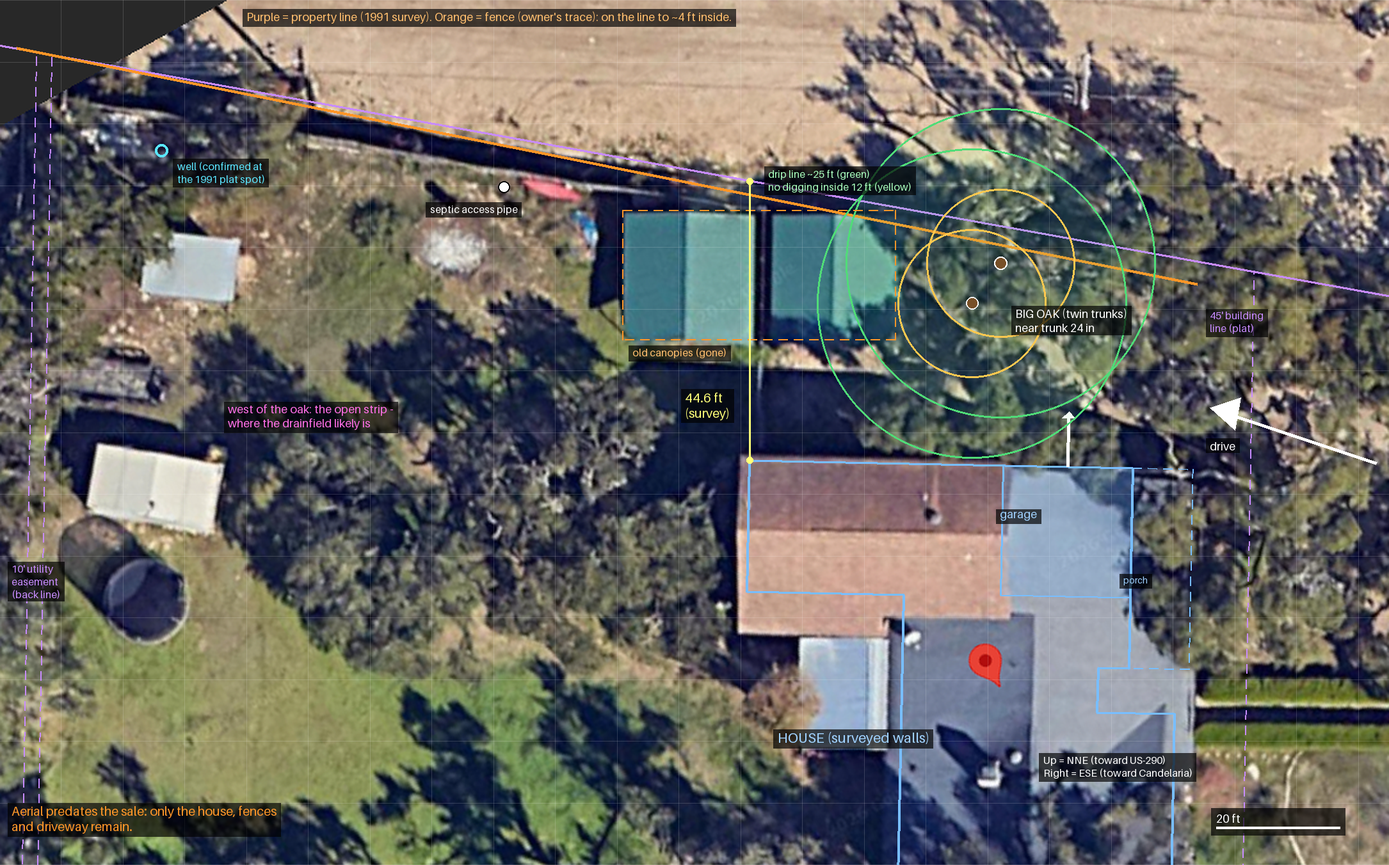
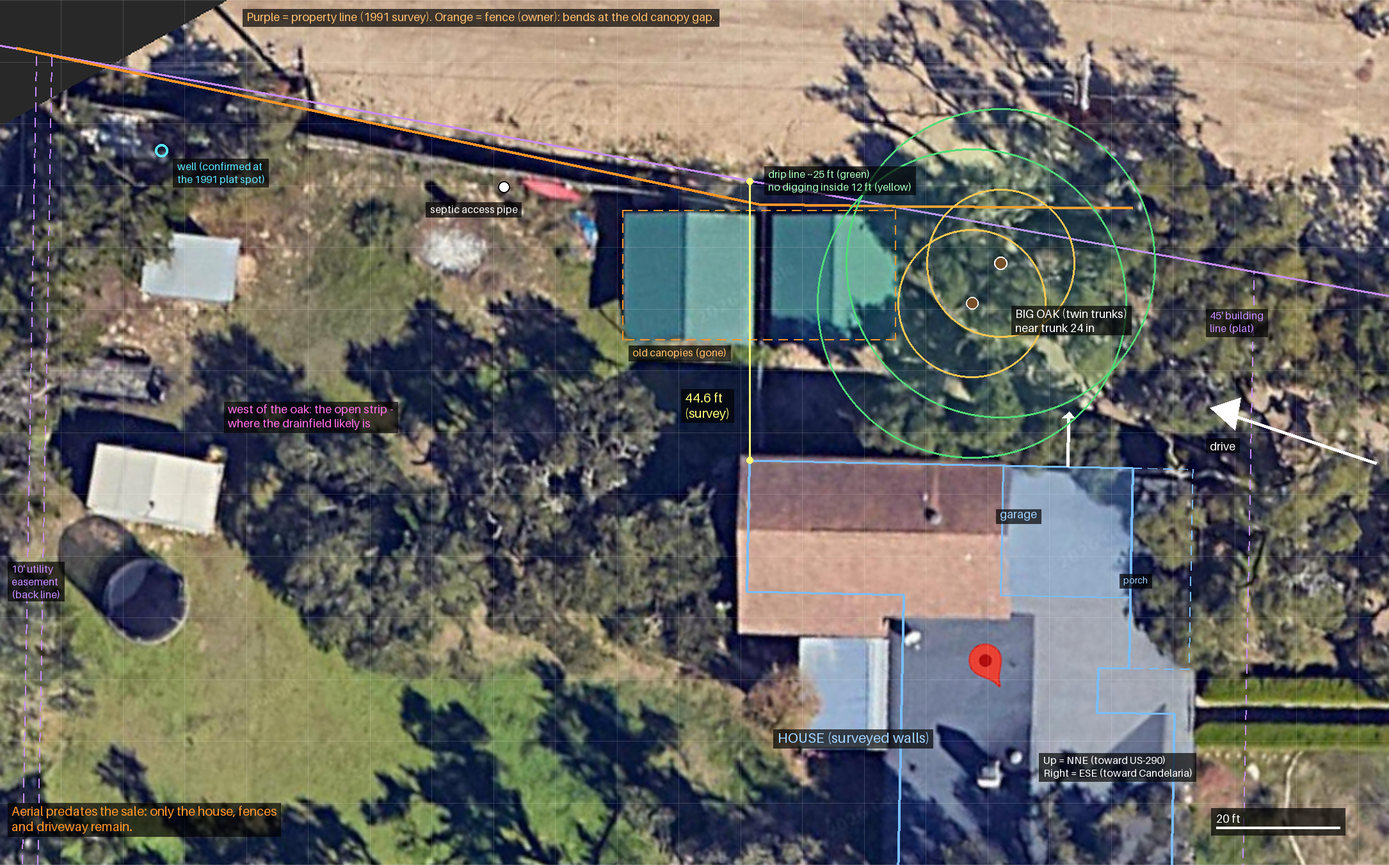
Model the US-290 fence with its bend at the old canopy gap
Per the owner, the fence bends between the two old canopies and runs along
the highway side of the house-side one, roughly parallel to the house.
Laser shot 4 (B -> fence 42 ft) fits that; shot 3 hit near the bend and
read long. East of the bend the fence crosses the surveyed line and sits
up to ~7 ft beyond it by the garage. Notes list the tape checks.

Claude-Session: https://claude.ai/code/session_018cHe8XhgQq9yhHiRQpWsrY

diff --git a/tools/site_plan.py b/tools/site_plan.py
@@ -236,9 +236,12 @@ def north_line_y(x: float) -> float:
 
 
 FIELD_POINTS = REPO / "site" / "field-points.json"
-# The US-290 fence as the owner traced it on a newer north-up aerial (Oct 2026), mapped to
-# this grid with a similarity fit on the house roof and old canopy corners (residuals <= 2 ft).
-FENCE_TRACE = [(62.9, 102.7), (253.9, 141.0)]
+# The US-290 fence (owner, Oct 2026). West of the gap between the old canopies it follows
+# the owner's trace on a newer aerial (mapped with a similarity fit on the house roof and
+# canopy corners, residuals <= 2 ft). At that gap it bends and runs along the highway side
+# of the house-side canopy, roughly parallel to the house; laser shot 4 (B -> fence 42.0 ft)
+# fits that line. Shot 3 hit near the bend and read long. To be checked with a tape.
+FENCE_TRACE = [(62.9, 102.7), (183.0, 128.0), (205.0, 128.3), (243.5, 128.7)]
 
 
 def draw_field(plan: Plan) -> dict:
@@ -276,7 +279,7 @@ def main() -> None:
 
     draw_survey(plan)
     fp = draw_field(plan)
-    plan.label(100, 96.5, "Purple = property line (1991 survey). Orange = fence (owner's trace): on the line to ~4 ft inside.", fill=(255, 190, 110), size=18)
+    plan.label(100, 96.5, "Purple = property line (1991 survey). Orange = fence (owner): bends at the old canopy gap.", fill=(255, 190, 110), size=18)
 
     well = en_to_site(WELL)
     plan.label(well[0] + 2.5, well[1] + 1.5, "well (confirmed at\nthe 1991 plat spot)", fill=CYAN, size=16)

diff --git a/site/notes.md b/site/notes.md
@@ -177,13 +177,21 @@ How it lines up with what we've seen:
 - **The well is where the 1991 plat shows it**, near the NW corner (~28 ft in from the
   back line, ~12 ft from the US-290 line).
 
-## Fence: owner's trace (Oct 11 2026)
+## Fence: owner's trace + bend (Oct 11 2026)
 
-- The owner traced the US-290 fence on a newer north-up aerial. Mapped onto this grid (fit
-  on the house roof and old canopy corners, residuals <= 2 ft), it runs **on the surveyed
-  line at the west end and ~2–4 ft inside it toward the garage**. It's ~43 ft out from A.
-- The laser fence shots (3–6) were off by several feet. The "fence 4–8 ft beyond the
-  line" reading is withdrawn. A 100 ft tape check is still worthwhile.
+- **West of the gap between the old canopies:** the fence follows the owner's trace on a
+  newer aerial. It's on the surveyed line at the west end and ~3 ft inside it at the bend.
+- **At that gap it bends** and runs along the highway side of the house-side canopy, roughly
+  parallel to the house.
+  - Laser shot 4 (B → fence 42.0 ft) fits that line. Shot 3 (49.5 ft) hit near the bend
+    and read long; the fence there is ~42 ft from A. F3 (shots 5–6) depended on shot 3.
+  - Past the canopy, that line **crosses the surveyed line** and sits up to **~7 ft beyond
+    it** (on the highway side) by the garage. The fence encloses a sliver of what the
+    1991 survey says isn't ours. That area is under the oak anyway.
+- **Tape checks:**
+  - A → fence square off the wall (expect ~42 ft).
+  - A → the bend post.
+  - B → fence (expect ~42 ft).
 - **Squaring off the wall with a tape:** mark 6 ft along the wall from the corner and 8 ft
   out, and adjust until the diagonal between those marks reads 10 ft (the 3-4-5 rule,
   doubled). Sight the long tape along that 8 ft leg.
@@ -231,7 +239,7 @@ How it lines up with what we've seen:
 | **Septic system** in the back yard | Location unknown: shots 13–14, or the septic report from closing |
 | **Large oak** in the back yard | Trunk, size and drip line unknown: shots 9–12 |
 | **Live oaks** east of the old canopy site | Avoid root zones; trunks not located yet (shot 15) |
-| **Fence**, US-290 side | On the surveyed line at the west end, ~2–4 ft inside it toward the garage (owner's trace). The line runs 9.1° off square from the house and gets closer going east. |
+| **Fence**, US-290 side | On the surveyed line at the west end, ~3 ft inside at the bend (old canopy gap), then parallel to the house: it crosses the line and is up to ~7 ft beyond it by the garage. Design to the line. |
 | **Septic truck access** | A pump truck has to keep reaching the tank. Keep a lane open from the driveway to within hose reach of the tank lid. Rules of thumb (confirm with the pumping company): ~12 ft wide, ~14 ft overhead clear (branches and the low wire), and a truck parked within ~100 ft of hose of the lid. The lane can't cross the tank or the drain field, and the tank lids stay uncovered. Worksheet shot 21 records where the truck parks today. |
 | **Garage apron** | The garage door faces north. The ~33–35 ft between the garage and the fence/line (x ≈ 219–241) is where cars turn in and out, and it's also the route west to the carport site. **Keep it clear.** The new structure should stay west of about x ≈ 210. |
 | **House** north wall | ~19 ft south of the old canopy footprint |
